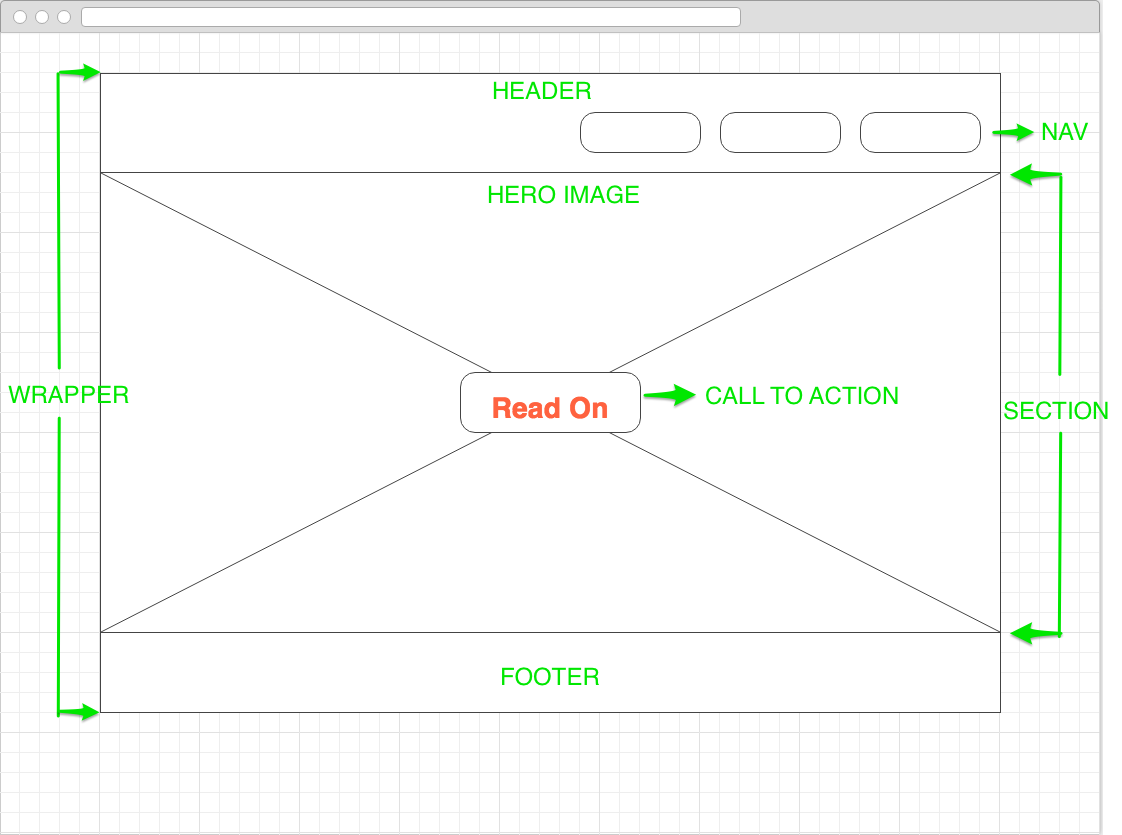
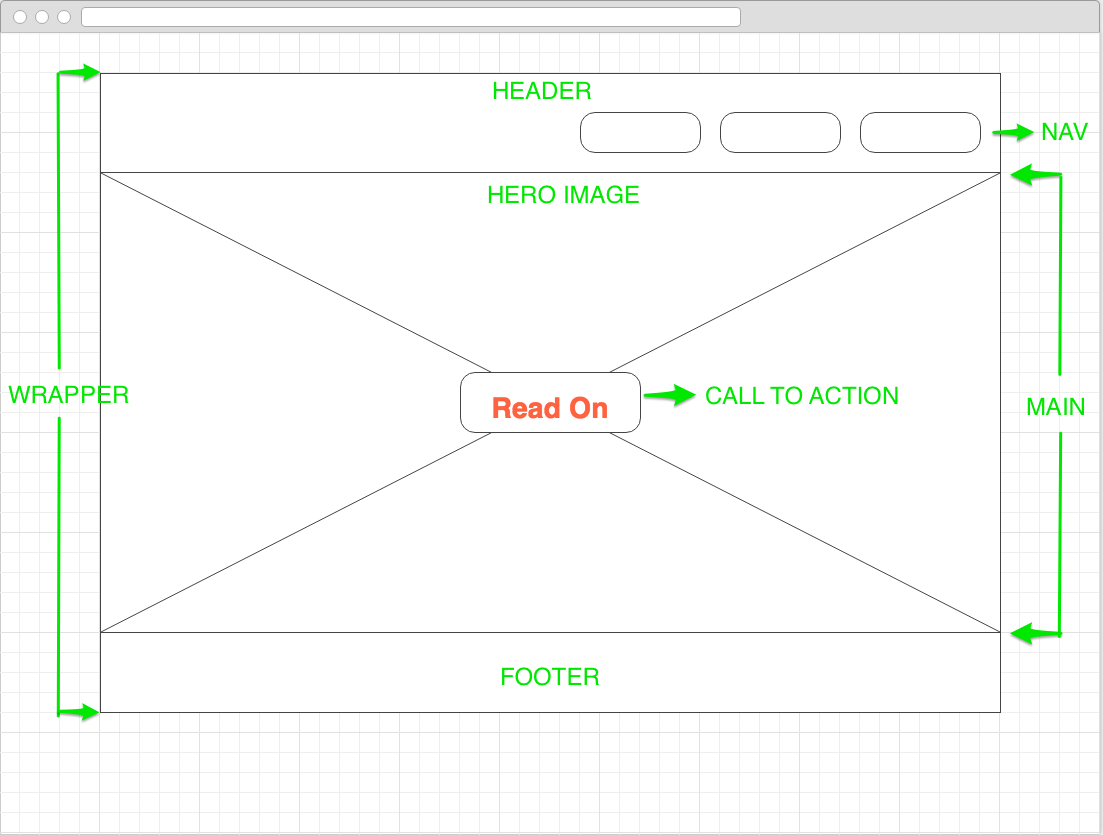
Changed label from "section" to "main"

diff --git a/unit_5/index.html b/unit_5/index.html
@@ -1,23 +1,21 @@
 <!DOCTYPE html>
 <html>
 <head>
-	<title>The Adventures of Prince Luca and Prince Nico</title>
+	<title>The Adventures of Luca and Nico</title>
 	<link rel="stylesheet" type="text/css" href="css/style.css">
 </head>
 
 <body>
-	
-	<header>
-		<h1 id="title">The Adventures of Prince Luca and Prince Nico</h1>
-
-		<hr>
-
-		<p id="slogan">navigating the world, one story at a time</p>
+	<div id="wrapper">	
+		<header>
+			<h1 id="title">The Adventures of Luca and Nico</h1>
+			<hr>
+			<p id="slogan">navigating the world, one story at a time</p>
 		
-		<nav>
-			<p><a href="#">about</a> <a href="#">stories</a> <a href="#">contact</a></p>
-		</nav>
-	</header>
+			<nav>
+				<p><a href="#">about</a> <a href="#">stories</a> <a href="#">contact</a></p>
+			</nav>
+		</header>
 
 	
 
@@ -39,30 +37,6 @@
 
 	</main>
 
-	<!-- <section>
-	<div><p>Nico and Luca are a couple of 5-year-old twin kids who love to imagine themselves in awesome alternate realities. Thusly, they have ruled that dinnertime will also be storytime, during which we're all challenged with coming up with awesome stories that ideally involve Luca and Nico as central characters doing awesome things. The success of one's story is judged by the inclusion of as many of the following elements as possible:</p>
-	<p>
-	
-		<li>royalty</li>
-		<li>rainbow dragons</li>
-		<li>candy</li>
-		<li>vampires</li>
-		<li>fairies</li>
-		<li>horses</li>
-		<li>gems</li>
-		<li>robots</li>
-		<li>aliens</li>
-		<li>superhuman powers</li>
-		<li>wooly mammoths</li>
-		<li>dinosaurs</li>
-		<li>meteors</li>
-		<li>rocketships</li>
-		<li>magic</li>
-		<li><i>ad infinitum...</i></li>
-
-	</p>
-	</div>
-	</section> -->
 		<br>
 		<br>
 		<br>
@@ -79,6 +53,6 @@
 			<p>&copy; 2016. All rights reserved.</p>
 			<p>Contact me: <a href="mailto:jennykijowski@gmail.com">jennykijowski@gmail.com</a></p>
 		</footer>
-
+	</div>
 </body>
 </html>
